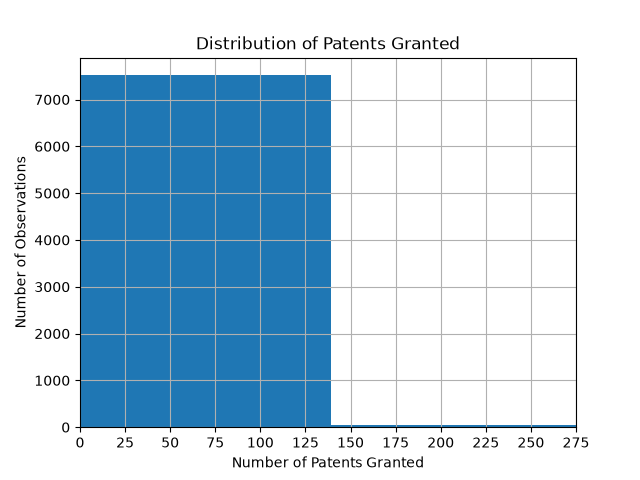
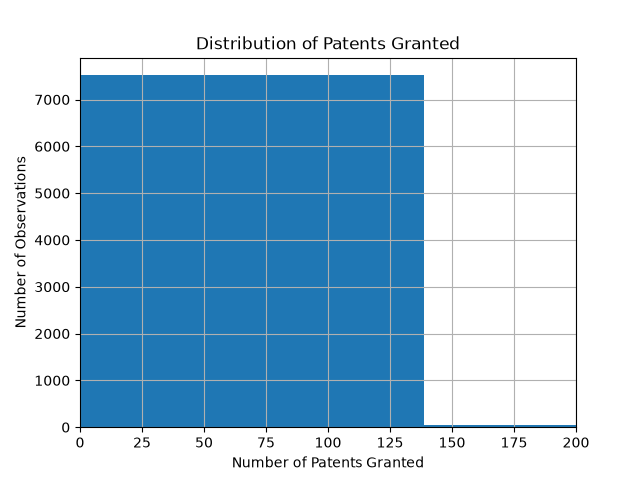
Add Week 8 pipeline validation and logging

diff --git a/findings.md b/findings.md
@@ -16,17 +16,21 @@ The maximum number of patents granted is 1,389.
 
 ## 3. R&D Intensity Distribution
 
-R&D intensity is also highly right-skewed. Most observations have relatively low R&D intensity, while a small number of observations have extremely high values.
+R&D intensity is highly right-skewed. Most observations have relatively low R&D intensity, while a small number of observations have extremely high values.
 
-The median R&D intensity is approximately 5.17%, while the maximum is 41,693.79%.
+The median R&D intensity is approximately 5.17%. The maximum R&D intensity ratio is 41,693.79, indicating the presence of extreme observations.
+
+For visualization, observations with R&D intensity above 50% are excluded from the chart, while the original data are retained.
 
 ![R&D Intensity Distribution](charts/rd_intensity_distribution.png)
 
 ## 4. R&D Intensity and ROA
 
-The scatter plot shows a weak negative association between R&D intensity and ROA in the filtered sample.
+The scatter plot shows a weak negative association between R&D intensity and ROA in the filtered visualization sample.
 
 The correlation coefficient is approximately -0.109. This indicates that the linear relationship between the two variables is weak.
+
+This result represents an association rather than a causal relationship.
 
 ![R&D Intensity vs ROA](charts/rd_intensity_vs_roa.png)
 
@@ -34,7 +38,9 @@ The correlation coefficient is approximately -0.109. This indicates that the lin
 
 Median R&D intensity generally increased from 2016 to 2022.
 
-The most substantial increases occurred between 2016 and 2019. R&D intensity was relatively stable from 2019 to 2021 before increasing again in 2022.
+The most substantial increase occurred between 2016 and 2019. R&D intensity was relatively stable from 2019 to 2021 before increasing again in 2022.
+
+R&D expenditure data are unavailable for all observations from 2010 to 2015. Therefore, R&D intensity cannot be calculated for these years, and the time-series analysis starts from 2016.
 
 ![R&D Intensity Over Time](charts/rd_intensity_over_time.png)
 
@@ -46,7 +52,39 @@ Some industries have substantially higher median R&D intensity than others, sugg
 
 ![R&D Intensity by Industry](charts/rd_intensity_by_industry.png)
 
-## 7. Potential Data Issues
+## 7. Tobin's Q Distribution
+
+Tobin's Q is calculated as:
+
+Tobin's Q = (Market Value + Total Liabilities) / Total Assets
+
+All 8,972 observations have valid Tobin's Q values.
+
+The mean Tobin's Q is approximately 3.10, while the median is approximately 2.44. The maximum value is approximately 33.37.
+
+The mean is higher than the median, indicating a right-skewed distribution with a small number of observations having relatively high Tobin's Q values.
+
+For visualization, the chart focuses on observations with Tobin's Q below 10. The original data are retained.
+
+![Tobin's Q Distribution](charts/tobinq_distribution.png)
+
+## 8. R&D Intensity and Tobin's Q
+
+A simple OLS regression was conducted to examine the linear association between R&D intensity and Tobin's Q.
+
+ST and *ST observations were excluded, observations with missing values were removed, and observations with R&D intensity above 50% were excluded from the regression sample.
+
+The final regression sample contains 6,903 observations.
+
+The estimated coefficient on R&D intensity is 9.7131 and is statistically significant (p < 0.001). The R-squared is 0.062.
+
+The positive coefficient indicates that higher R&D intensity is associated with higher Tobin's Q in the filtered sample. However, the relatively low R-squared indicates that R&D intensity alone explains only a limited proportion of the variation in Tobin's Q.
+
+This result represents an association rather than a causal effect. Additional firm-level and time-related factors should therefore be considered in subsequent predictive modelling.
+
+![R&D Intensity vs Tobin's Q](charts/rd_intensity_vs_tobinq.png)
+
+## 9. Potential Data Issues
 
 ### Missing R&D expenditure data
 
@@ -57,3 +95,9 @@ R&D expenditure data are unavailable for all observations from 2010 to 2015. The
 R&D intensity contains several extreme observations. There are 67 observations with R&D intensity above 50%, including 38 observations above 100%.
 
 The extreme values are mainly associated with observations where revenue is very low relative to R&D expenditure. These observations should be considered carefully in further analysis and modelling.
+
+### Tobin's Q distribution
+
+Tobin's Q is also right-skewed, with a maximum value of approximately 33.37 compared with a median of approximately 2.44.
+
+These extreme values are retained in the original dataset but the visualization focuses on the range where observations are more concentrated.
